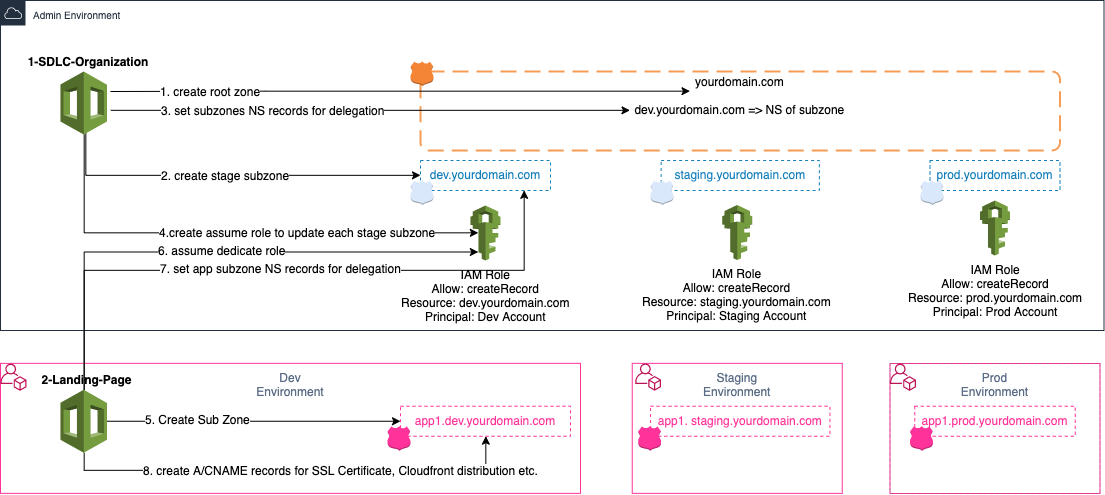
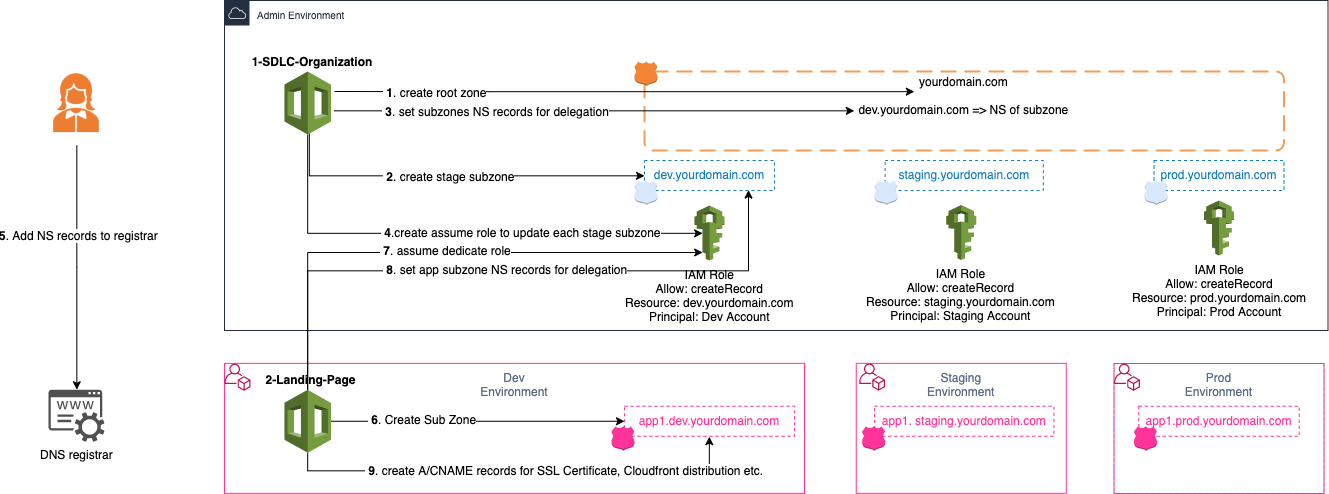
update diagram

diff --git a/source/1-SDLC-organization/README.md b/source/1-SDLC-organization/README.md
@@ -108,7 +108,8 @@ To learn more, check the [official doc](https://docs.aws.amazon.com/cli/latest/u
         * `gihub_repo_branch` corresponding to the main branch of your repo. (should be called `main`)
         * `pipeline_deployable_regions` corresponding to the lists of [AWS regions](https://docs.aws.amazon.com/AWSEC2/latest/UserGuide/using-regions-availability-zones.html#concepts-regions) you plan to deploy your future applications to.
         * (optional) `domain_name` a DNS domain name to use to expose your services publicly (it needs to be already registered in a registrar such [Amazon route53](https://docs.aws.amazon.com/Route53/latest/DeveloperGuide/domain-register.html))
-            it should look like:
+
+        it should look like:
             ```
             cd <YOUR REPO>
             cat 1-SDLC-organization/cdk.json
@@ -190,9 +191,10 @@ To learn more, check the [official doc](https://docs.aws.amazon.com/cli/latest/u
 
 ## Going further
 
-### Finalize DNS setup
 
 If you added `domain_name` in your config file (`cdk.json`) earlier, a last step is need to delegate your registered domain to the new hosted zone created by the previous delployment. Otherwise you can skip this section.
+
+### Finalize DNS setup
 
 <details>
 <summary>Click to go through this step</summary>
@@ -206,7 +208,7 @@ If you added `domain_name` in your config file (`cdk.json`) earlier, a last step
 **Your Done! Now you can manage your domain through AWS Route53**
 </details>
 
-#### Enable SSO
+### Enable SSO
 
 In order to facilitate the management of permissions on the access to this different accounts we suggest to setup an SSO portal following the steps described bellow. That's going to give you the capability to centrally manage and access your different AWS account with a single identity (login and password) or even delegate this to a third party provider such as Google Workspace (GSuite).
 
